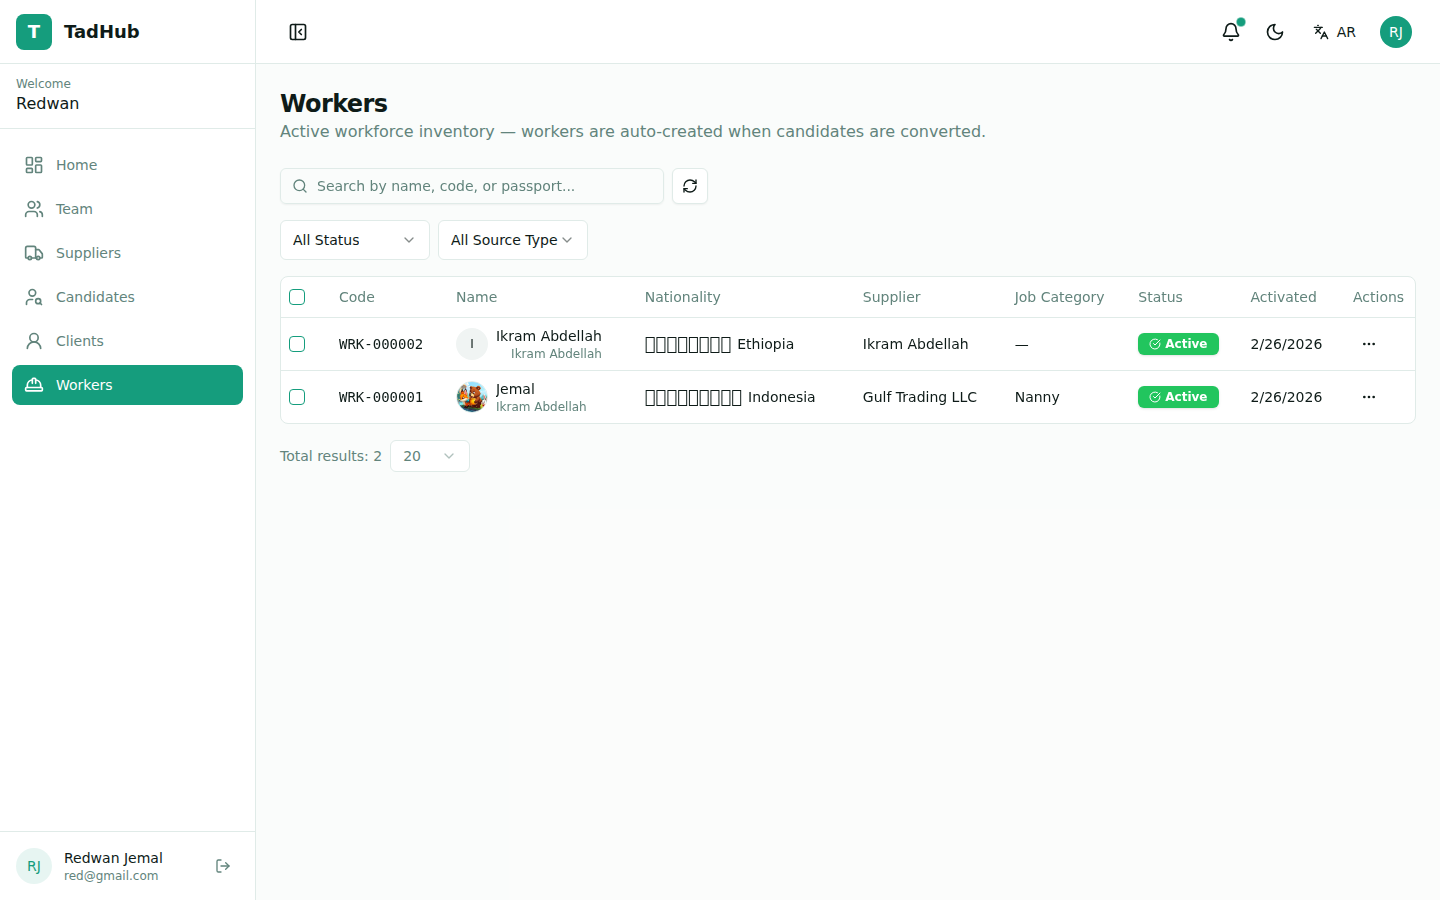
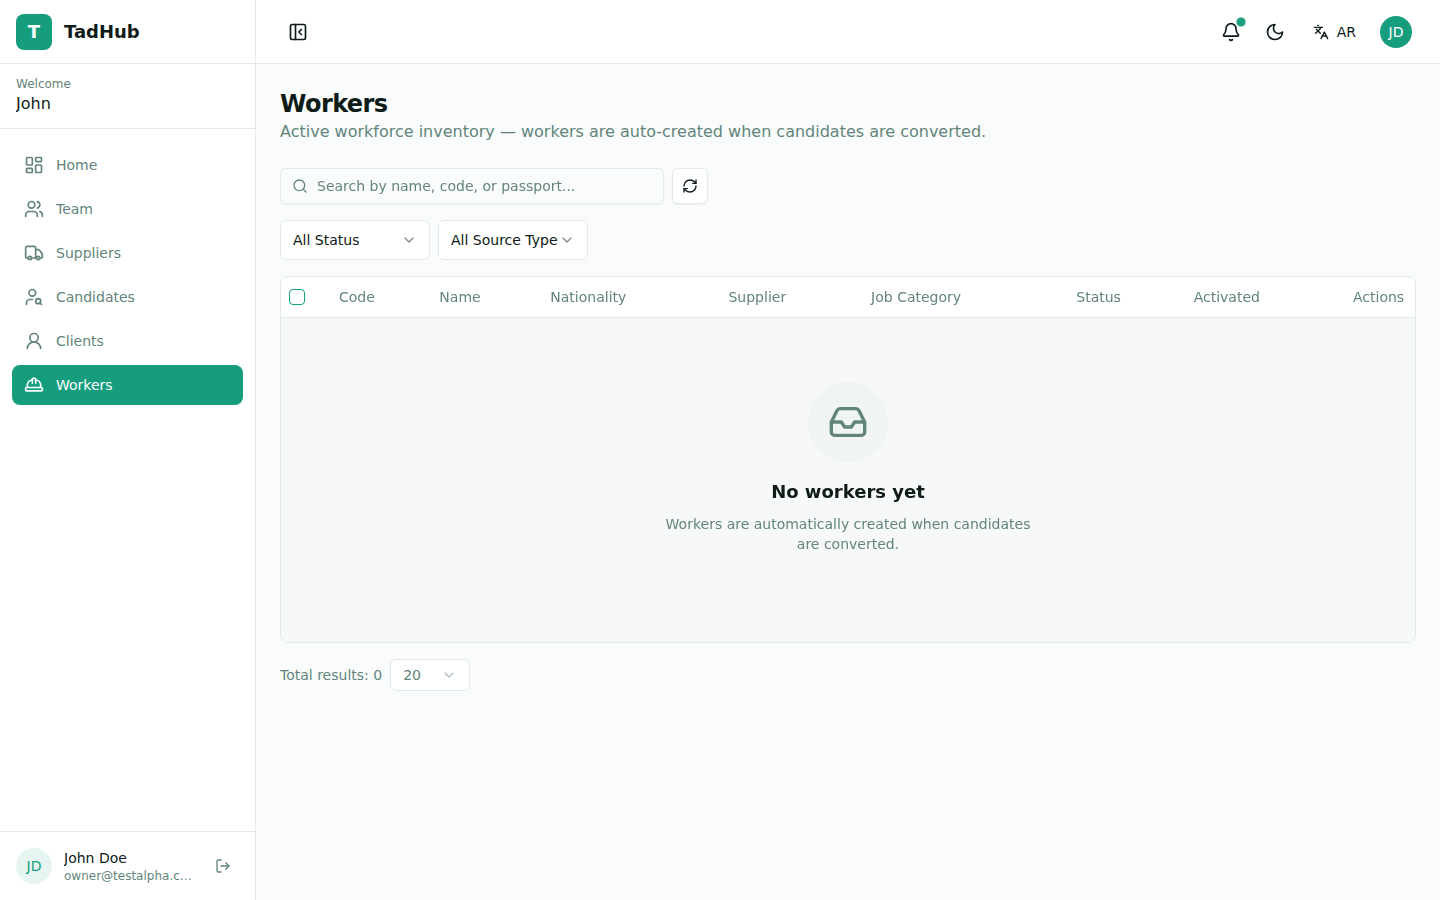
chore: add screenshots for Phase 3 verification and earlier flows
- Updated tenant screenshots (workers list, candidates, clients, sidebar)
- Added flow-test screenshots (create, edit, duplicate passport error)
- Added docs/screenshots for backoffice (keycloak, dashboard, tenants)
- Added candidate verification screenshots (detail, edit, sourcing, status)

diff --git a/e2e/take-screenshots.ts b/e2e/take-screenshots.ts
@@ -46,7 +46,7 @@ async function main() {
   // Login via Keycloak if redirected
   if (page.url().includes('auth.endlessmaker.com')) {
     console.log('  logging in via Keycloak...');
-    await loginKeycloak(page, 'red@gmail.com', 'Test@1234');
+    await loginKeycloak(page, 'owner@testalpha.com', 'Test1234');
     await page.waitForURL(url => url.toString().includes('tadbeer.endlessmaker.com'), { timeout: 30_000 });
     console.log(`  after login, URL: ${page.url()}`);
   }
